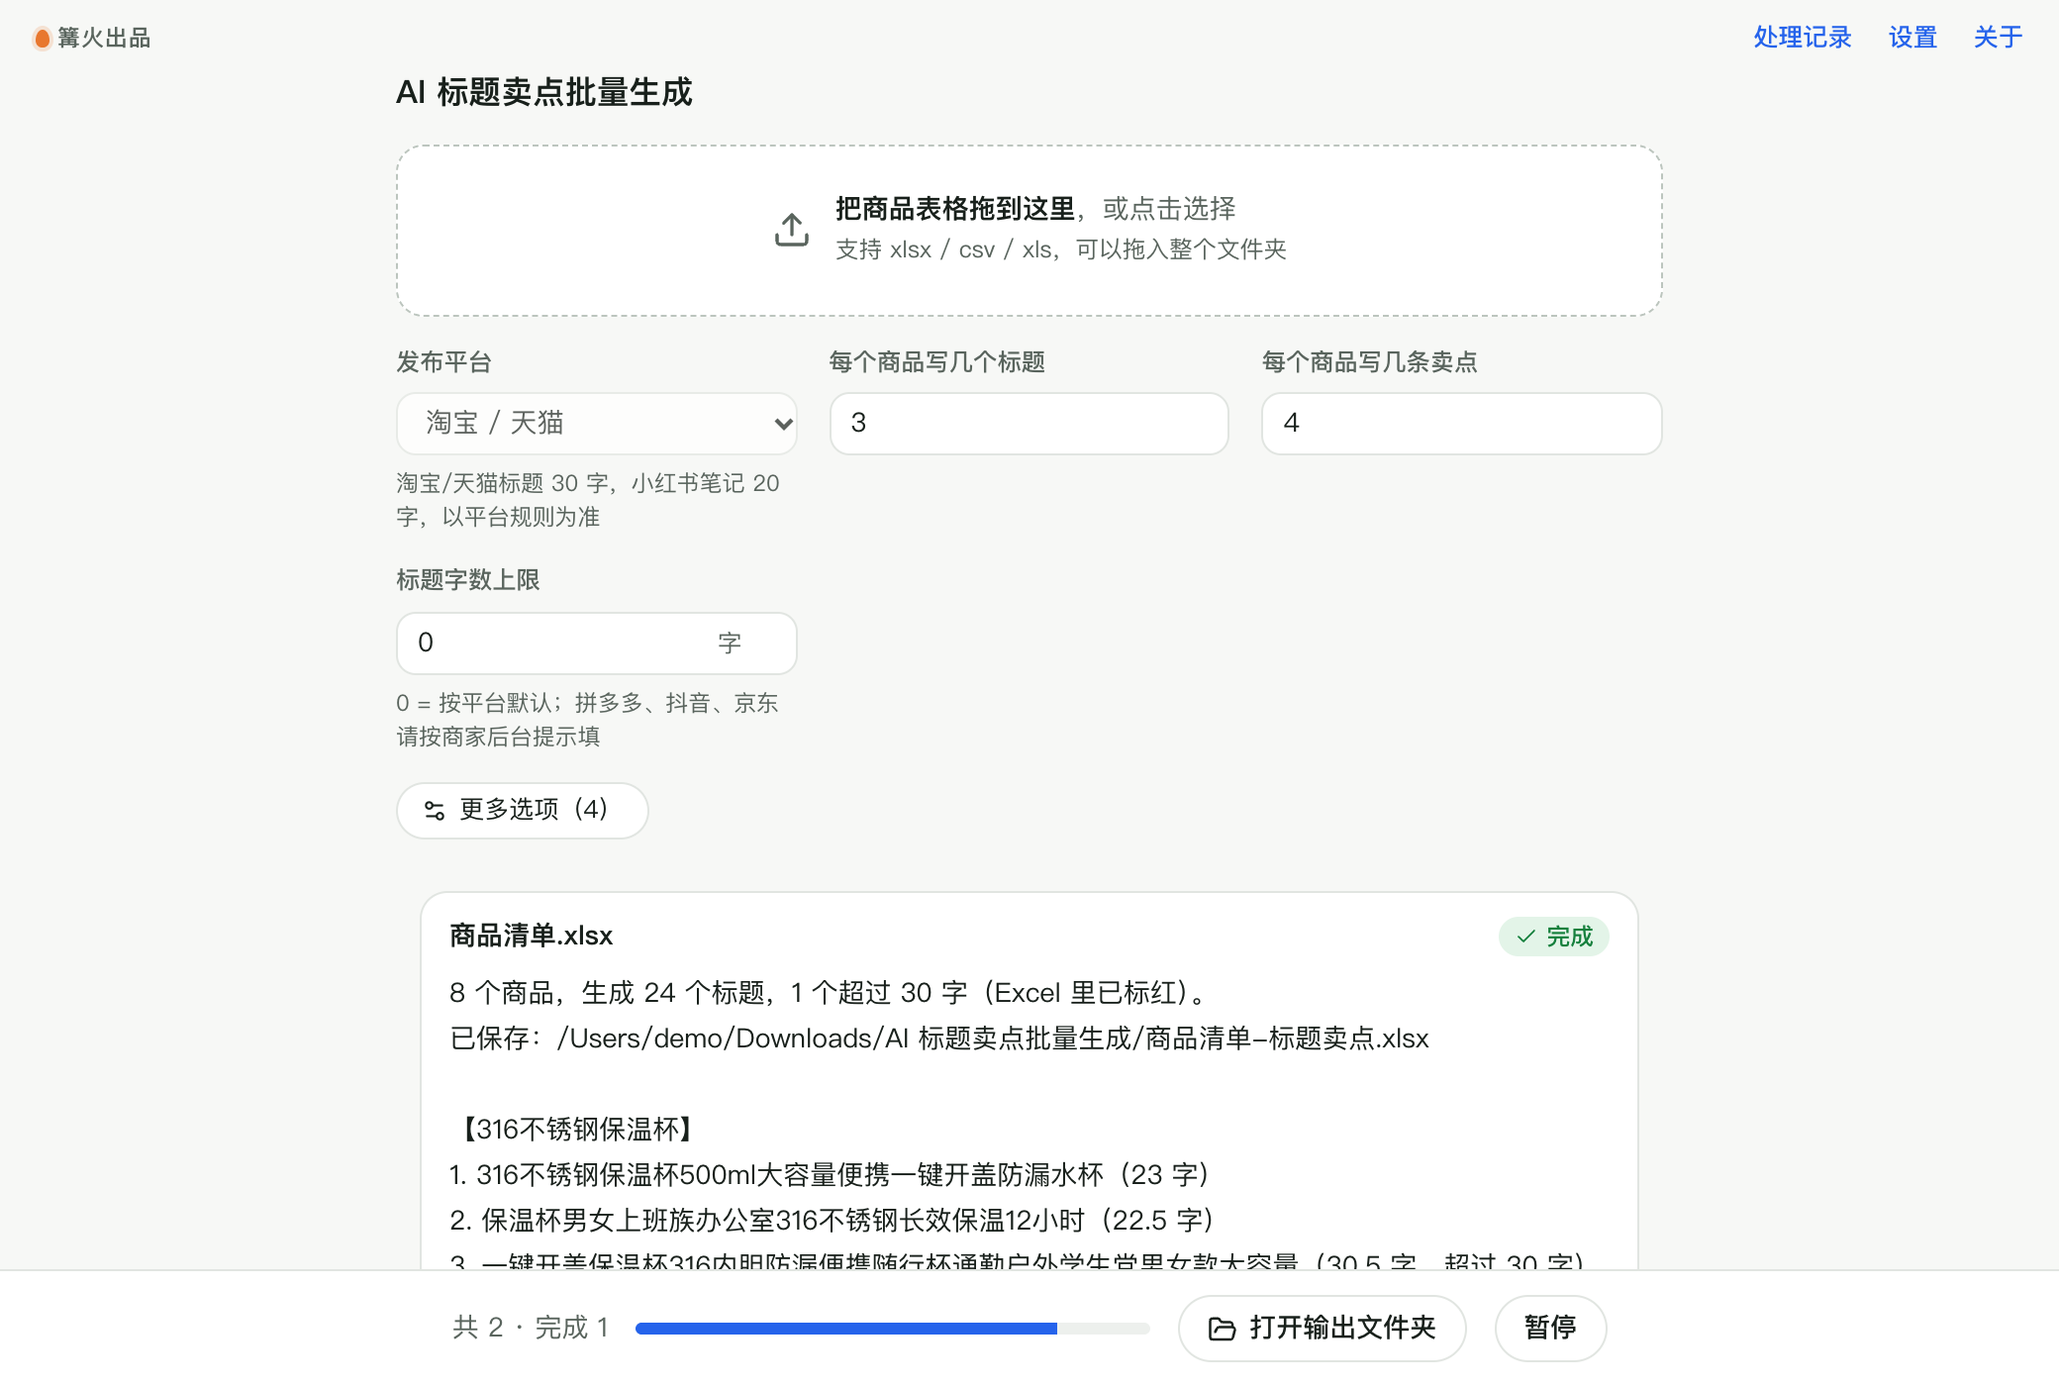
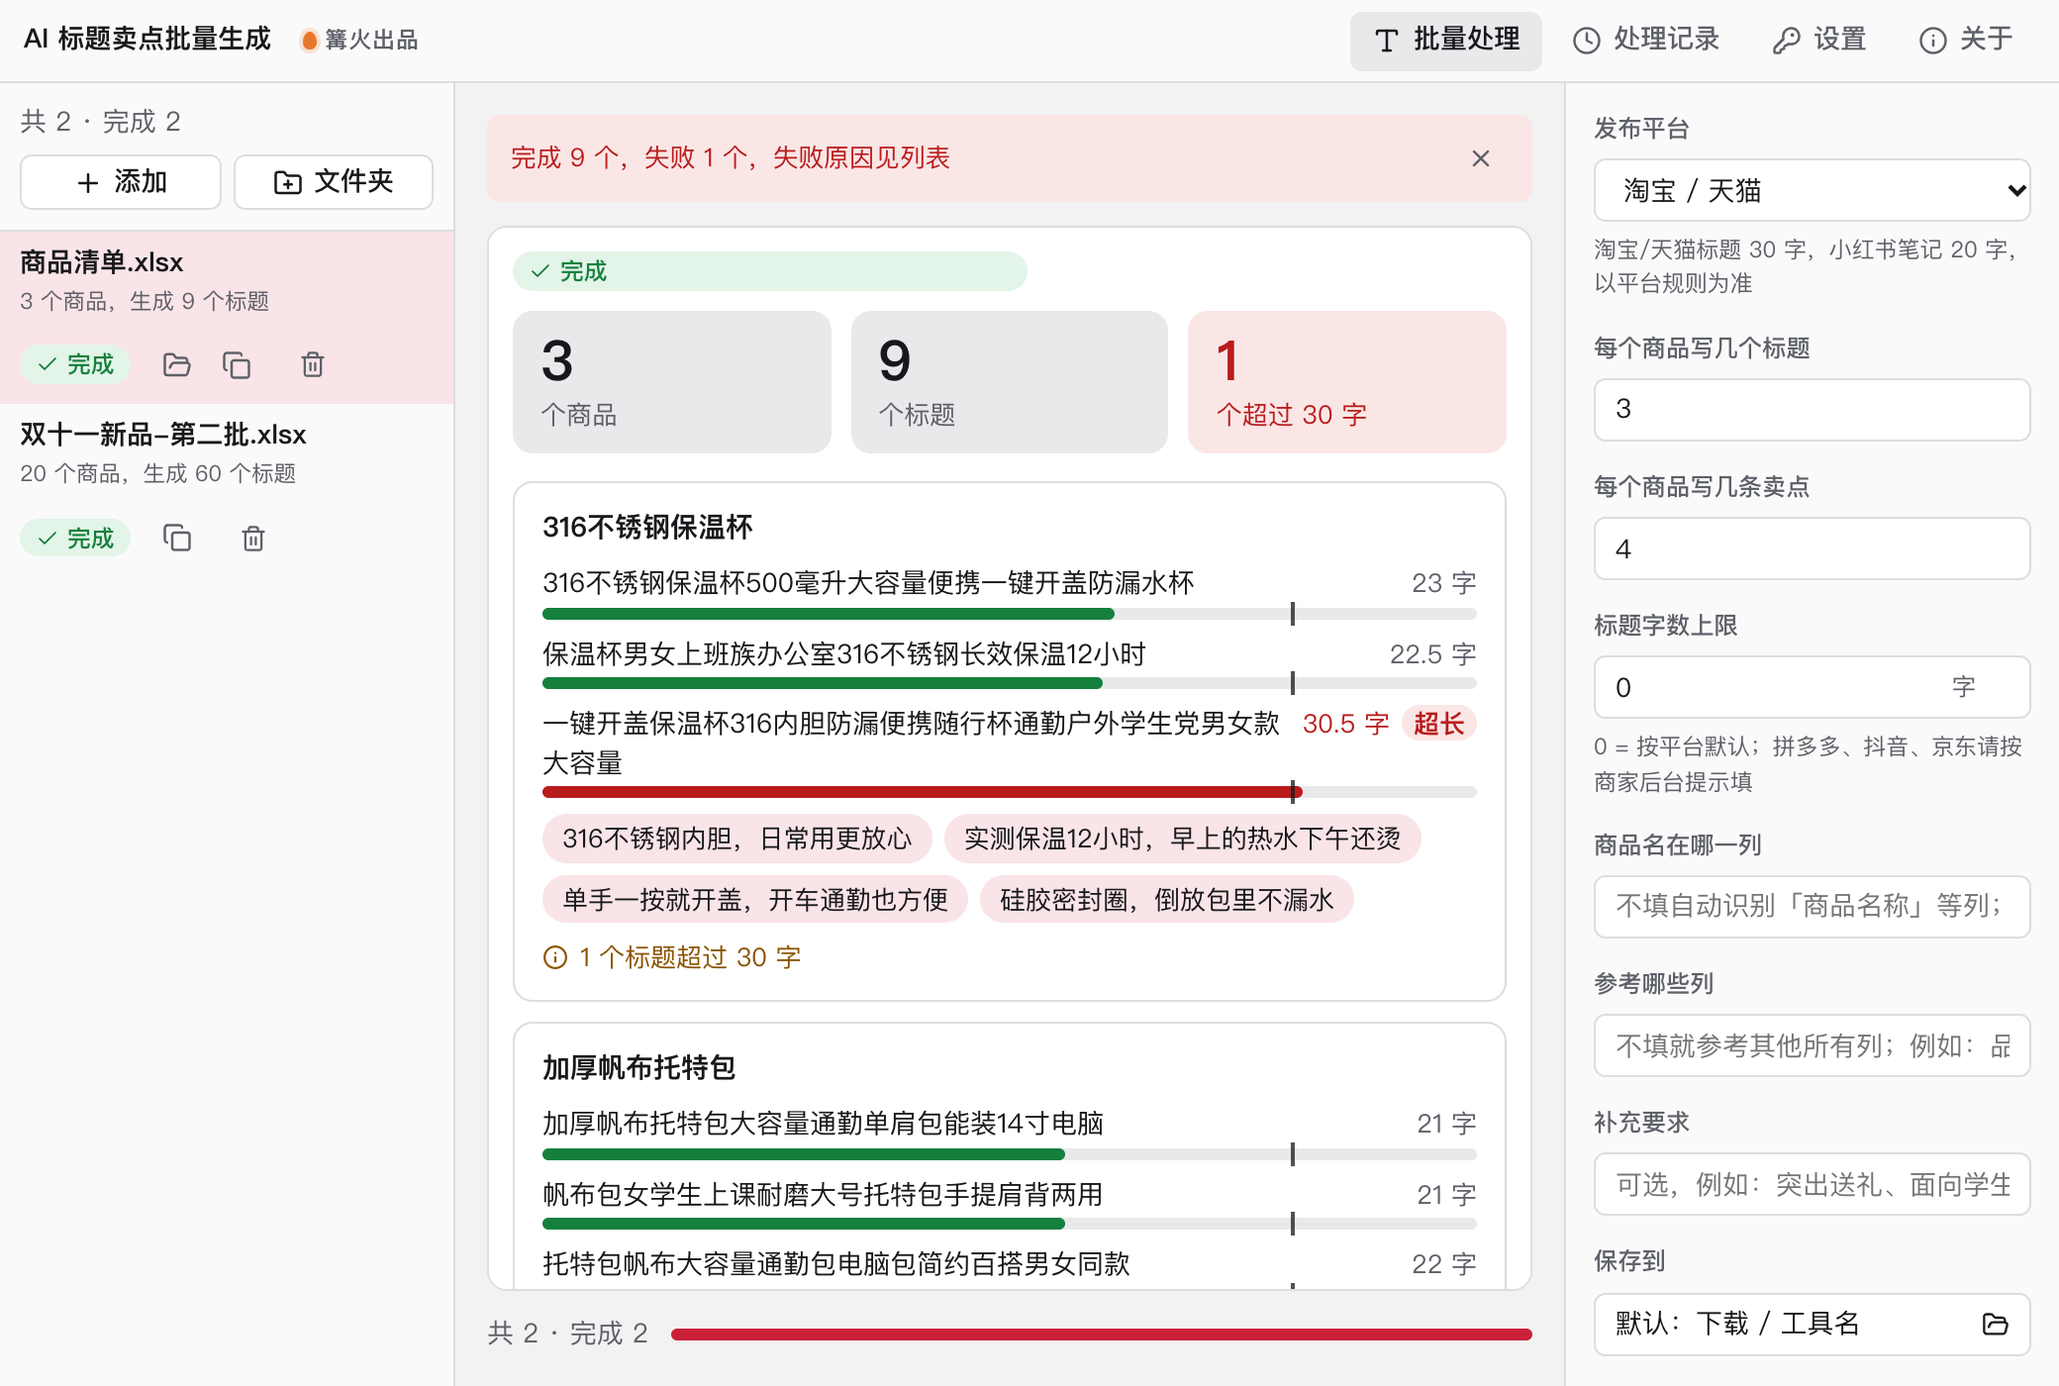
0.2.0 界面改版：左列表右预览，标题字数条，中文空状态

diff --git a/src/tool/tool.css b/src/tool/tool.css
@@ -1,0 +1,66 @@
+/* AI 标题卖点批量生成：布局 d（左列表、右预览）。只用 kit.css 的变量，类名以 tw- 开头。
+   焦点：每个商品的几个标题，配一根字数条，超长的标红。 */
+
+/* ---- 空状态 ---- */
+.tw-empty { display: flex; flex-direction: column; align-items: center; gap: 10px; padding: 12px 4px 4px; text-align: center; }
+.tw-empty > svg { width: 100%; max-width: 640px; height: auto; }
+.tw-card { fill: var(--surface); stroke: var(--line-strong); stroke-width: 1.4; }
+.tw-card.hot { stroke: var(--primary); }
+.tw-top { fill: var(--chip); }
+.tw-top.hot { fill: var(--primary-soft); }
+.tw-tt { font-size: 11px; font-weight: 700; fill: var(--ink); font-family: var(--font); }
+.tw-k { font-size: 10px; fill: var(--muted); font-family: var(--font); }
+.tw-v { font-size: 12px; font-weight: 600; fill: var(--ink); font-family: var(--font); }
+.tw-arrow { fill: none; stroke: var(--primary); stroke-width: 2.4; stroke-linecap: round; stroke-linejoin: round; }
+.tw-step { fill: var(--primary-soft); stroke: var(--primary); stroke-width: 1.4; stroke-dasharray: 4 3; }
+.tw-st1 { font-size: 14px; font-weight: 700; fill: var(--ink); font-family: var(--font); }
+.tw-st2 { font-size: 11px; fill: var(--ink); font-family: var(--font); }
+.tw-ti { font-size: 11px; fill: var(--ink); font-family: var(--font); }
+.tw-track { fill: var(--chip); }
+.tw-fill { fill: var(--ok); }
+.tw-fill.over { fill: var(--err); }
+.tw-limit { stroke: var(--ink); stroke-width: 1.5; }
+.tw-n { font-size: 10.5px; fill: var(--muted); font-family: var(--font); font-variant-numeric: tabular-nums; }
+.tw-n.over { fill: var(--err); font-weight: 700; }
+.tw-chip { fill: var(--primary-soft); }
+.tw-pt { font-size: 10px; fill: var(--ink); font-family: var(--font); }
+.tw-cap, .tw-cap2 { font-size: 11.5px; fill: var(--muted); font-family: var(--font); }
+.tw-cap2 { font-size: 10.5px; }
+.tw-title { font-size: 1.3em; font-weight: 700; color: var(--ink); margin-top: 4px; }
+.tw-act { display: inline-flex; align-items: center; gap: 6px; padding: 6px 14px; border-radius: 999px; background: var(--primary-soft); color: var(--ink); font-weight: 600; text-align: left; line-height: 1.4; }
+.tw-act svg { flex: none; color: var(--primary); }
+
+/* ---- 结果 ---- */
+.tw-sub { color: var(--muted); }
+.tw-body { display: grid; gap: 14px; }
+.tw-stats { display: flex; flex-wrap: wrap; gap: 10px; }
+.tw-stats > div { flex: 1 1 110px; display: flex; flex-direction: column; gap: 2px; padding: 10px 14px; border-radius: var(--radius-lg); background: var(--chip); }
+.tw-stats b { font-size: 28px; line-height: 1.1; color: var(--ink); }
+.tw-stats span { color: var(--muted); font-size: 13px; }
+.tw-stats .good b { color: var(--ok); }
+.tw-stats .bad { background: var(--err-soft); }
+.tw-stats .bad b, .tw-stats .bad span { color: var(--err); }
+.tw-list { display: grid; gap: 10px; }
+.tw-prod { border: 1px solid var(--line); border-radius: var(--radius-lg); padding: 12px 14px; display: grid; gap: 8px; background: var(--surface); }
+.tw-prod h4 { margin: 0; font-size: 14px; font-weight: 700; color: var(--ink); }
+.tw-titles { list-style: none; margin: 0; padding: 0; display: grid; gap: 8px; }
+.tw-titles li { display: grid; grid-template-columns: 1fr auto; gap: 2px 10px; align-items: baseline; }
+.tw-t { color: var(--ink); line-height: 1.45; }
+.tw-len { color: var(--muted); font-size: 13px; white-space: nowrap; }
+.tw-len em { font-style: normal; margin-left: 6px; padding: 0 6px; border-radius: 999px; background: var(--err-soft); color: var(--err); font-weight: 700; }
+.tw-titles li.over .tw-len { color: var(--err); }
+.tw-meter { grid-column: 1 / -1; position: relative; height: 6px; border-radius: 3px; background: var(--chip); }
+.tw-meter i { position: absolute; inset: 0 auto 0 0; border-radius: 3px; background: var(--ok); transition: width 200ms var(--ease); }
+.tw-titles li.over .tw-meter i { background: var(--err); }
+.tw-meter u { position: absolute; top: -3px; bottom: -3px; width: 2px; background: var(--ink); opacity: .75; text-decoration: none; }
+.tw-points { list-style: none; margin: 0; padding: 0; display: flex; flex-wrap: wrap; gap: 6px; }
+.tw-points li { padding: 3px 10px; border-radius: 999px; background: var(--primary-soft); color: var(--ink); font-size: 13px; line-height: 1.4; }
+.tw-note { display: flex; align-items: center; gap: 6px; color: var(--warn); font-size: 13px; }
+.tw-note svg { flex: none; }
+.tw-fail { display: flex; align-items: center; gap: 6px; color: var(--err); }
+
+/* ---- 左侧文件列表：侧栏窄，名称独占一行，状态和操作放到下一行 ---- */
+.d-files .k-row { flex-wrap: wrap; row-gap: 2px; padding: 8px 10px; }
+.d-files .k-thumb { display: none; }
+.d-files .k-row-name { flex: 1 1 100%; }
+.d-files .k-row-name > span { font-weight: 600; }

diff --git a/src/tool/Empty.tsx b/src/tool/Empty.tsx
@@ -1,0 +1,63 @@
+// 空状态：画出「商品表一行 → 大模型 → 三个标题（带字数条）+ 卖点」，示例用真实感的中文
+import { Upload } from 'lucide-react';
+import './tool.css';
+
+const TITLES: [string, number, boolean][] = [
+  ['316不锈钢保温杯500毫升大容量便携防漏', 23, false],
+  ['保温杯男女上班族办公室长效保温12小时', 22.5, false],
+  ['一键开盖保温杯316内胆防漏便携通勤户外学生党', 30.5, true],
+];
+
+export function Empty({ hover }: { hover: boolean }) {
+  return (
+    <div className="tw-empty">
+      <svg viewBox="0 0 560 230" role="img" aria-label="商品表格的一行商品信息，交给大模型，写出三个带字数检查的标题和几条卖点">
+        <g>
+          <rect x="6" y="20" width="140" height="150" rx="6" className="tw-card" />
+          <rect x="6" y="20" width="140" height="22" rx="6" className="tw-top" />
+          <text x="16" y="35" className="tw-tt">商品清单.xlsx</text>
+          {[['商品名称', '保温杯'], ['品类', '水杯'], ['卖点关键词', '316 防漏'], ['适用人群', '上班族']].map(([k, v], i) => (
+            <g key={k}>
+              <text x="16" y={64 + i * 26} className="tw-k">{k}</text>
+              <text x="16" y={78 + i * 26} className="tw-v">{v}</text>
+            </g>
+          ))}
+        </g>
+        <path d="M152 95 H184 M176 87 L186 95 L176 103" className="tw-arrow" />
+        <g>
+          <rect x="192" y="52" width="72" height="86" rx="8" className="tw-step" />
+          <text x="228" y="86" textAnchor="middle" className="tw-st1">大模型</text>
+          <text x="228" y="104" textAnchor="middle" className="tw-st2">写标题</text>
+          <text x="228" y="120" textAnchor="middle" className="tw-st2">去极限词</text>
+        </g>
+        <path d="M270 95 H298 M290 87 L300 95 L290 103" className="tw-arrow" />
+        <g>
+          <rect x="306" y="6" width="248" height="188" rx="6" className="tw-card hot" />
+          <rect x="306" y="6" width="248" height="22" rx="6" className="tw-top hot" />
+          <text x="316" y="21" className="tw-tt">商品清单-标题卖点.xlsx</text>
+          {TITLES.map(([t, n, over], i) => (
+            <g key={t}>
+              <text x="316" y={50 + i * 36} className="tw-ti">{t.length > 17 ? t.slice(0, 17) + '…' : t}</text>
+              <rect x="316" y={57 + i * 36} width="190" height="6" rx="3" className="tw-track" />
+              <rect x="316" y={57 + i * 36} width={Math.min(190, (n / 30) * 150)} height="6" rx="3" className={over ? 'tw-fill over' : 'tw-fill'} />
+              <line x1="466" x2="466" y1={54 + i * 36} y2={66 + i * 36} className="tw-limit" />
+              <text x="546" y={64 + i * 36} textAnchor="end" className={over ? 'tw-n over' : 'tw-n'}>{n} 字</text>
+            </g>
+          ))}
+          <rect x="316" y="152" width="92" height="18" rx="9" className="tw-chip" />
+          <text x="362" y="165" textAnchor="middle" className="tw-pt">316内胆更放心</text>
+          <rect x="414" y="152" width="76" height="18" rx="9" className="tw-chip" />
+          <text x="452" y="165" textAnchor="middle" className="tw-pt">保温12小时</text>
+          <rect x="496" y="152" width="52" height="18" rx="9" className="tw-chip" />
+          <text x="522" y="165" textAnchor="middle" className="tw-pt">卖点 4 条</text>
+          <text x="316" y="186" className="tw-cap2">竖线是字数上限，超出的标题标红</text>
+        </g>
+        <text x="76" y="204" textAnchor="middle" className="tw-cap">一行一个商品</text>
+        <text x="228" y="204" textAnchor="middle" className="tw-cap">逐个生成</text>
+        <text x="430" y="218" textAnchor="middle" className="tw-cap">原表加上标题、卖点、提示列</text>
+      </svg>
+      <h2 className="tw-title">{hover ? '松开鼠标，开始添加' : '把商品表格拖进来'}</h2>
+      <p className="tw-act"><Upload size={15} />支持 Excel、CSV 表格，至少要有一列商品名；点左上「添加」也行</p>
+    </div>
+  );
+}

diff --git a/src/tool/Result.tsx b/src/tool/Result.tsx
@@ -1,0 +1,74 @@
+// 结果展示：顶部大字（商品数、标题数、超长数），下面每个商品一张卡，标题带字数条，超长的标红，卖点列成小标签
+import { AlertTriangle, Info } from 'lucide-react';
+import type { InputItem, ItemResult } from '../kit/types';
+import './tool.css';
+
+interface Title { text: string; len: number; over: boolean }
+interface Block { name: string; error?: string; titles: Title[]; points: string[]; notes: string }
+
+/** 把 previewText 生成的文字还原成结构（格式见 core.ts 的 previewText） */
+function parse(text: string): { head: string; blocks: Block[] } {
+  const parts = text.split(/\n\n(?=【)/);
+  const head = (parts[0].split('\n')[0] ?? '').replace(/。$/, '');
+  const first = parts[0].slice(parts[0].indexOf('\n\n') + 2);
+  const blocks: Block[] = [];
+  for (const raw of [first, ...parts.slice(1)]) {
+    const lines = raw.split('\n');
+    const m = /^【(.*?)】(生成失败：(.*))?$/.exec(lines[0] ?? '');
+    if (!m) continue;
+    const b: Block = { name: m[1], error: m[3], titles: [], points: [], notes: '' };
+    for (const l of lines.slice(1)) {
+      const t = /^\d+\. (.*)（([\d.]+) 字(，超过 \d+ 字)?）$/.exec(l);
+      if (t) b.titles.push({ text: t[1], len: Number(t[2]), over: !!t[3] });
+      else if (l.startsWith('卖点：')) b.points = l.slice(3).split(' / ').filter(Boolean);
+      else if (l.startsWith('提示：')) b.notes = l.slice(3);
+    }
+    blocks.push(b);
+  }
+  return { head, blocks };
+}
+
+export function ResultBody({ result }: { item: InputItem; result: ItemResult }) {
+  if (!result.text) return <p className="tw-sub">{result.summary}</p>;
+  const { head, blocks } = parse(result.text);
+  const limit = Number(/超过 (\d+) 字|都在 (\d+) 字以内/.exec(head)?.slice(1).find(Boolean) ?? 0);
+  const titleN = blocks.reduce((a, b) => a + b.titles.length, 0);
+  const overN = blocks.reduce((a, b) => a + b.titles.filter((t) => t.over).length, 0);
+  const failN = blocks.filter((b) => b.error).length;
+  const scale = limit > 0 ? limit * 1.25 : Math.max(30, ...blocks.flatMap((b) => b.titles.map((t) => t.len)));
+  return (
+    <div className="tw-body">
+      <div className="tw-stats">
+        <div><b className="k-num">{blocks.length}</b><span>个商品</span></div>
+        <div><b className="k-num">{titleN}</b><span>个标题</span></div>
+        <div className={overN ? 'bad' : 'good'}><b className="k-num">{overN}</b><span>{limit > 0 ? `个超过 ${limit} 字` : '未检查字数'}</span></div>
+        {failN > 0 && <div className="bad"><b className="k-num">{failN}</b><span>个失败</span></div>}
+      </div>
+      <div className="tw-list">
+        {blocks.map((b, bi) => (
+          <article key={bi} className="tw-prod">
+            <h4>{b.name}</h4>
+            {b.error ? <p className="tw-fail"><AlertTriangle size={14} />生成失败：{b.error}</p> : (
+              <>
+                <ol className="tw-titles">
+                  {b.titles.map((t, i) => (
+                    <li key={i} className={t.over ? 'over' : ''}>
+                      <span className="tw-t">{t.text}</span>
+                      <span className="tw-len k-num">{t.len} 字{t.over && <em>超长</em>}</span>
+                      <span className="tw-meter" aria-hidden="true">
+                        <i style={{ width: `${Math.min(100, (t.len / scale) * 100)}%` }} />
+                        {limit > 0 && <u style={{ left: `${(limit / scale) * 100}%` }} />}
+                      </span>
+                    </li>
+                  ))}
+                </ol>
+                {b.points.length > 0 && <ul className="tw-points">{b.points.map((p, i) => <li key={i}>{p}</li>)}</ul>}
+                {b.notes && <p className="tw-note"><Info size={13} />{b.notes}</p>}
+              </>
+            )}
+          </article>
+        ))}
+      </div>
+    </div>
+  );
+}

diff --git a/src/tool/preview.ts b/src/tool/preview.ts
@@ -1,11 +1,11 @@
 // 截图与预览用的示例数据（不会进入正式运行）
 import type { Row } from '../kit/runner';
 
-const done = `8 个商品，生成 24 个标题，1 个超过 30 字（Excel 里已标红）。
-已保存：/Users/demo/Downloads/AI 标题卖点批量生成/商品清单-标题卖点.xlsx
+const done = `3 个商品，生成 9 个标题，1 个超过 30 字（Excel 里已标红）。
+已保存：D:/店铺运营/标题卖点/商品清单-标题卖点.xlsx
 
 【316不锈钢保温杯】
-1. 316不锈钢保温杯500ml大容量便携一键开盖防漏水杯（23 字）
+1. 316不锈钢保温杯500毫升大容量便携一键开盖防漏水杯（23 字）
 2. 保温杯男女上班族办公室316不锈钢长效保温12小时（22.5 字）
 3. 一键开盖保温杯316内胆防漏便携随行杯通勤户外学生党男女款大容量（30.5 字，超过 30 字）
 卖点：316不锈钢内胆，日常用更放心 / 实测保温12小时，早上的热水下午还烫 / 单手一按就开盖，开车通勤也方便 / 硅胶密封圈，倒放包里不漏水
@@ -27,7 +27,7 @@ const done = `8 个商品，生成 24 个标题，1 个超过 30 字（Excel 里
 export const rows = (state: string): Row[] => {
   if (state === 'empty') return [];
   const list: Row[] = [
-    { item: { id: 'p0', name: '商品清单.xlsx', path: '/示例/商品清单.xlsx', size: 7_544 }, status: 'ok', progress: 1, result: { summary: '8 个商品，生成 24 个标题', outputPath: '/示例/输出', text: done } },
+    { item: { id: 'p0', name: '商品清单.xlsx', path: '/示例/商品清单.xlsx', size: 7_544 }, status: 'ok', progress: 1, result: { summary: '3 个商品，生成 9 个标题', outputPath: '/示例/输出', text: done } },
     { item: { id: 'p1', name: '双十一新品-第二批.xlsx', path: '/示例/双十一新品-第二批.xlsx', size: 18_200 }, status: state === 'done' ? 'ok' : 'run', progress: 0.42, result: state === 'done' ? { summary: '20 个商品，生成 60 个标题', text: '20 个商品，生成 60 个标题，都在 30 字以内。' } : undefined },
   ];
   return list;

diff --git a/src/tool/index.ts b/src/tool/index.ts
@@ -4,6 +4,8 @@ import type { BatchTool, RunContext } from '../kit/types';
 import { baseName, cellText, errText, guessColumn, isFatalLlmError, mapPool, resolveColumn, safeName, splitList, toTable } from './common';
 import { PLATFORMS, buildMessages, effectiveLimit, finish, outputCells, outputHeader, parseReply, platformOf, previewText, rowToProduct, type Finished, type GenOptions, type Product } from './core';
 import { readSheets, writeXlsx } from './xlsx';
+import { Empty } from './Empty';
+import { ResultBody } from './Result';
 
 const NAME_KEYWORDS = [/^商品名称?$/, /^(产品|宝贝)名称?$/, /商品名|品名|产品名|宝贝名/, /名称/, /^(商品|产品|宝贝)$/, /标题/];
 const MAX_ROWS = 500;
@@ -31,7 +33,9 @@ const tool: BatchTool = {
   category: '电商运营',
   type: 'text',
   mode: 'batch',
-  resultView: 'text',
+  resultView: 'list',
+  Empty,
+  ResultBody,
   needsLLM: true,
   concurrency: 1,
   accept: { label: '商品表格', extensions: ['xlsx', 'csv', 'xls'] },

diff --git a/CHANGELOG.md b/CHANGELOG.md
@@ -1,5 +1,13 @@
 # 更新记录
 
+## 0.2.0
+
+- 界面改版：换成左列表、右预览的布局，主色改为红色。
+- 新的空状态：画出「商品表一行 → 大模型 → 标题和卖点」的示意。
+- 新的结果展示：顶部大字显示商品数、标题数、超长数；每个标题配字数条，竖线是字数上限，超长的标红；卖点列成标签。
+- 示例数据和界面文字全部改为中文，补全上架文案。
+- 功能和数据处理不变。
+
 ## 0.1.0
 
 - 首个版本。
